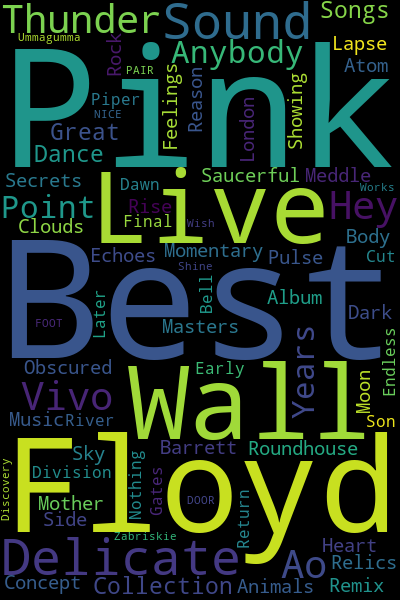
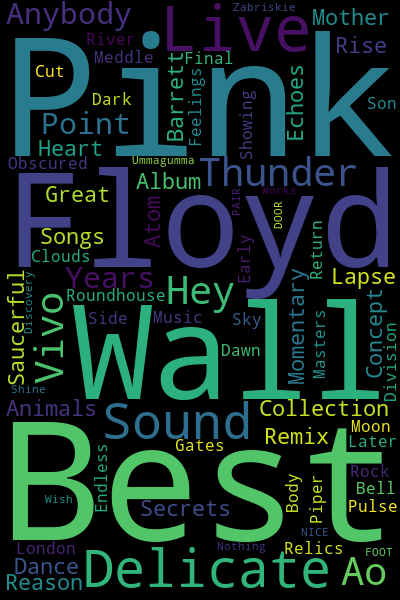
Crie tag cloud com imagem

diff --git a/visualizações/tag_cloud_g2.py b/visualizações/tag_cloud_g2.py
@@ -1,5 +1,9 @@
 from wordcloud import WordCloud
 import pandas as pd
+import matplotlib.pyplot as plt
+import numpy as np
+import os
+from os import path
 import re
 
 
@@ -27,3 +31,13 @@ def tag_1(texto):
     
 pergunta_1(nome_arquivo, "albuns", "albuns")
 tag_1(pergunta_1(nome_arquivo, "albuns", "albuns"))
+
+from PIL import Image
+
+def tag_1pf(texto):
+    mask = np.array(Image.open(path.join("pf_darkside.png")))
+    mask_wc = WordCloud(background_color=None, mask = mask)
+    mask_wc.generate(texto)
+    mask_wc.to_file(path.join("tag_1mm.png"))
+
+tag_1pf(pergunta_1(nome_arquivo, "albuns", "albuns"))
